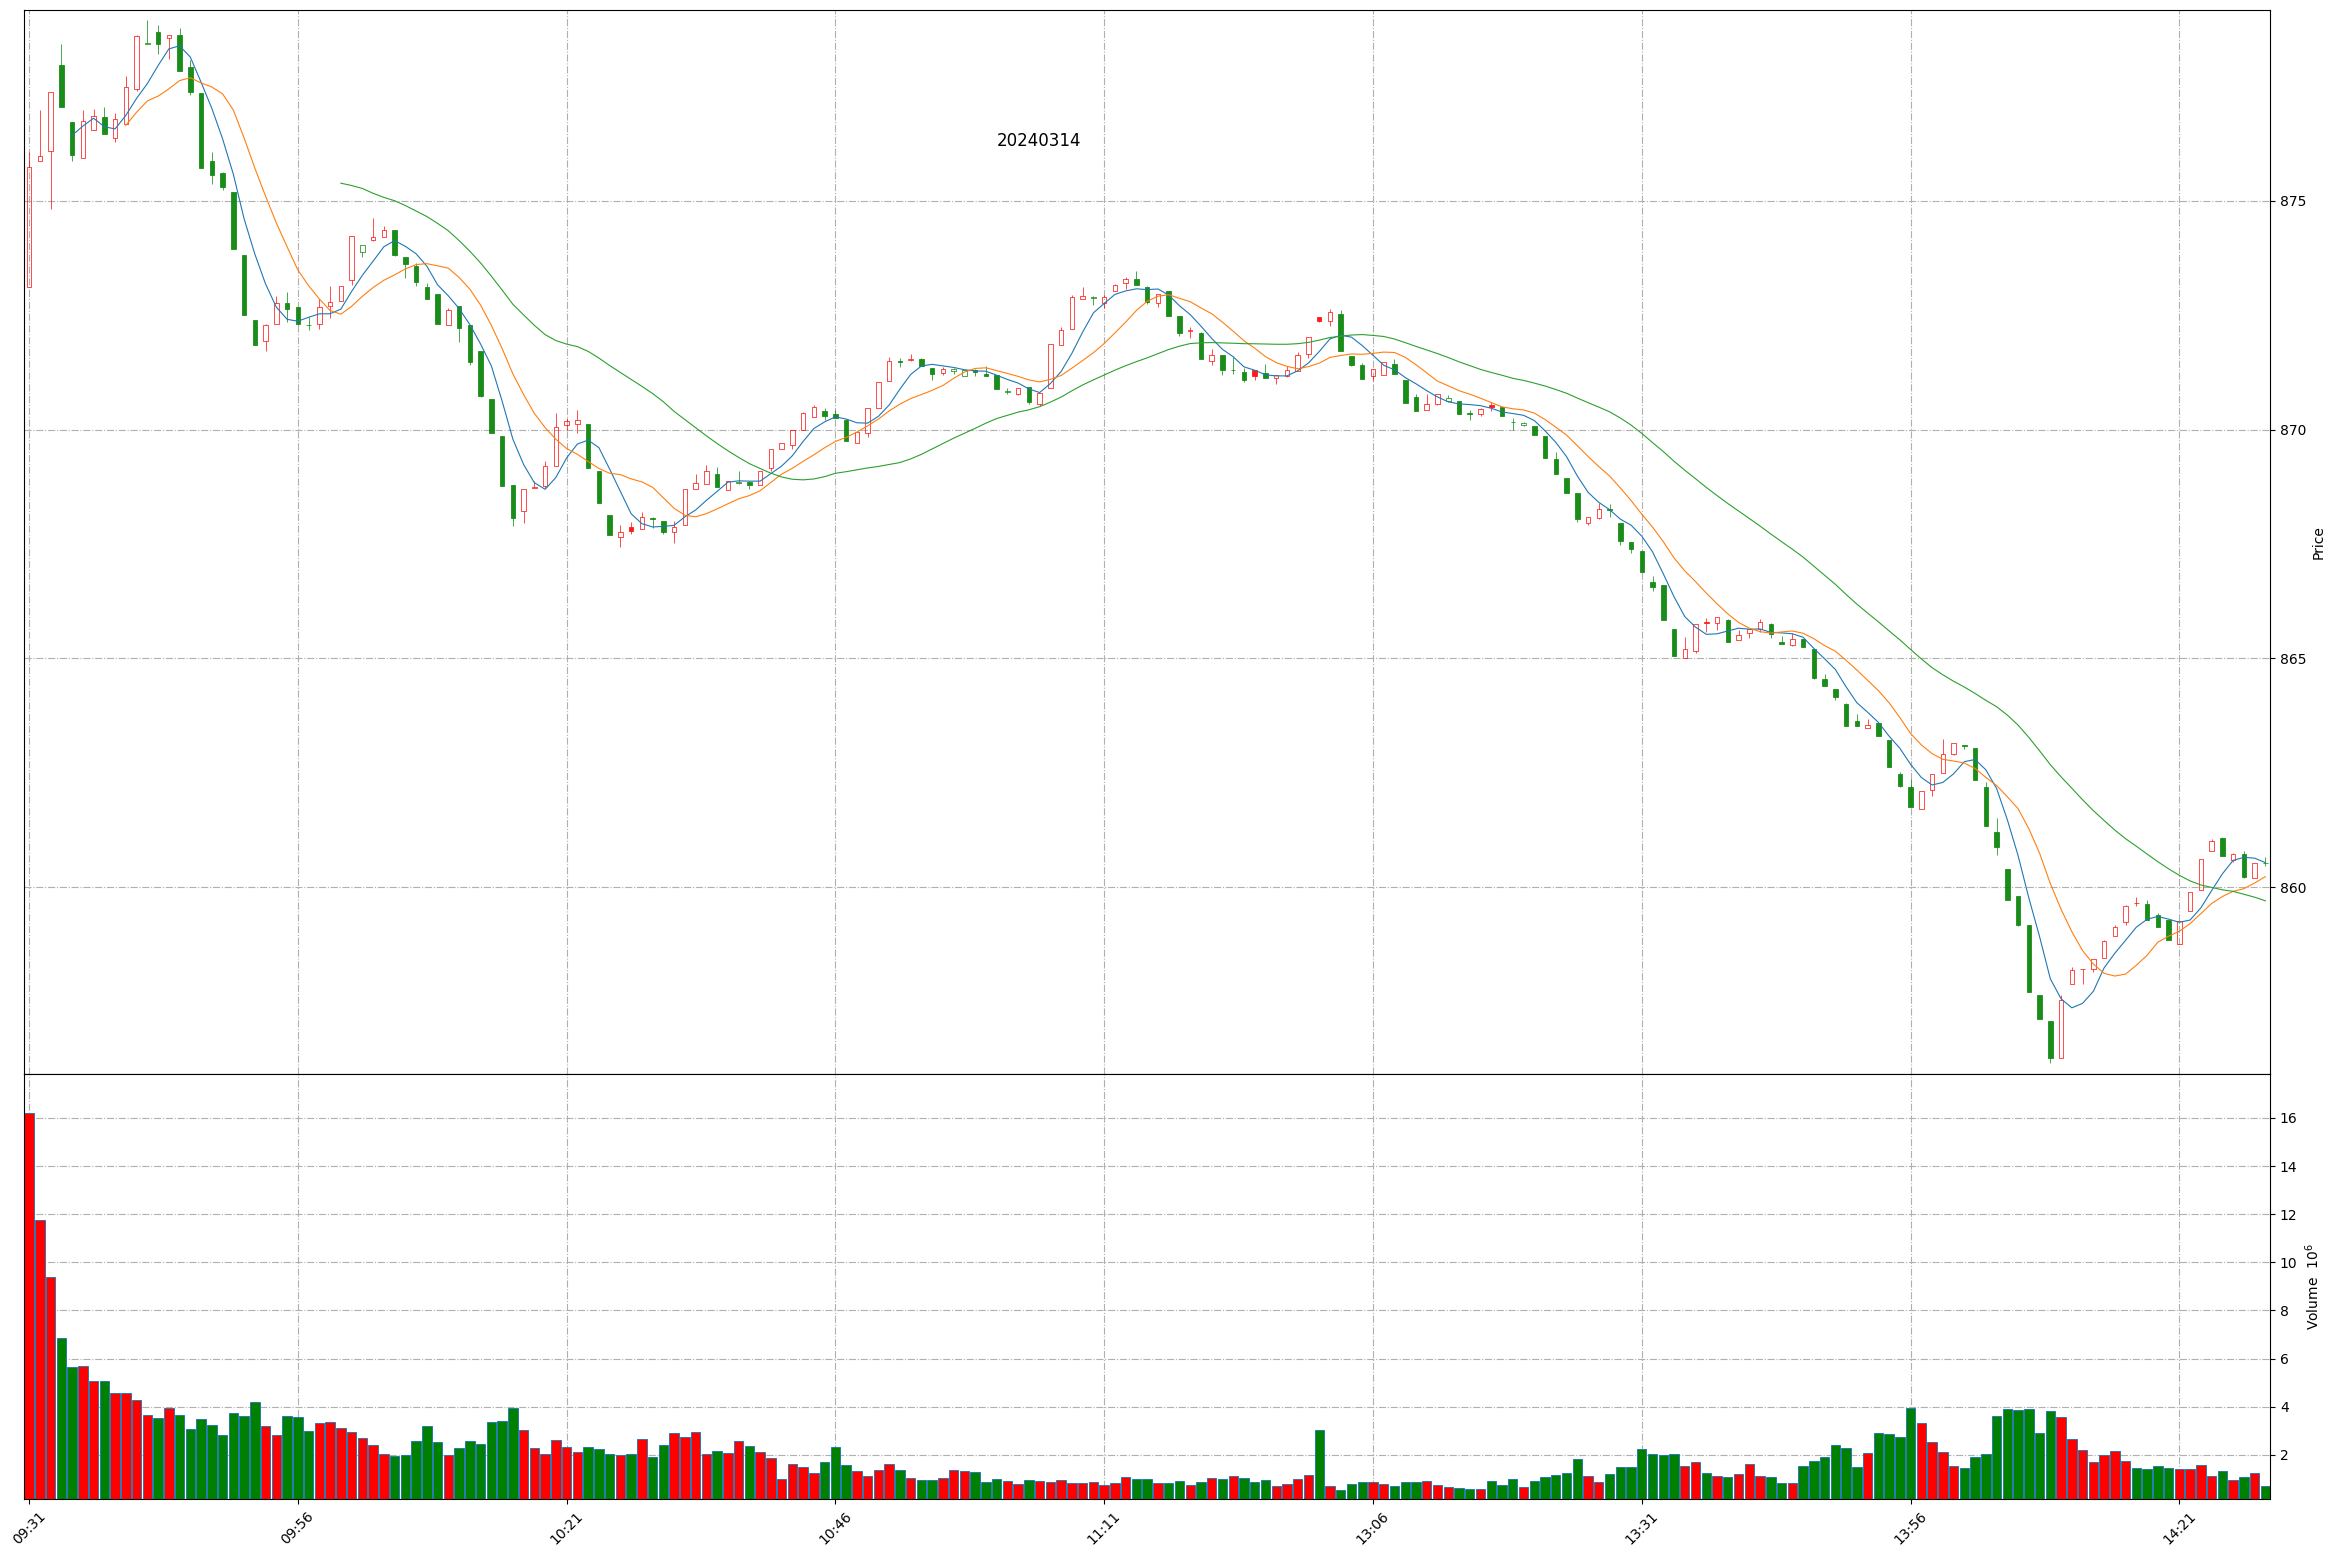
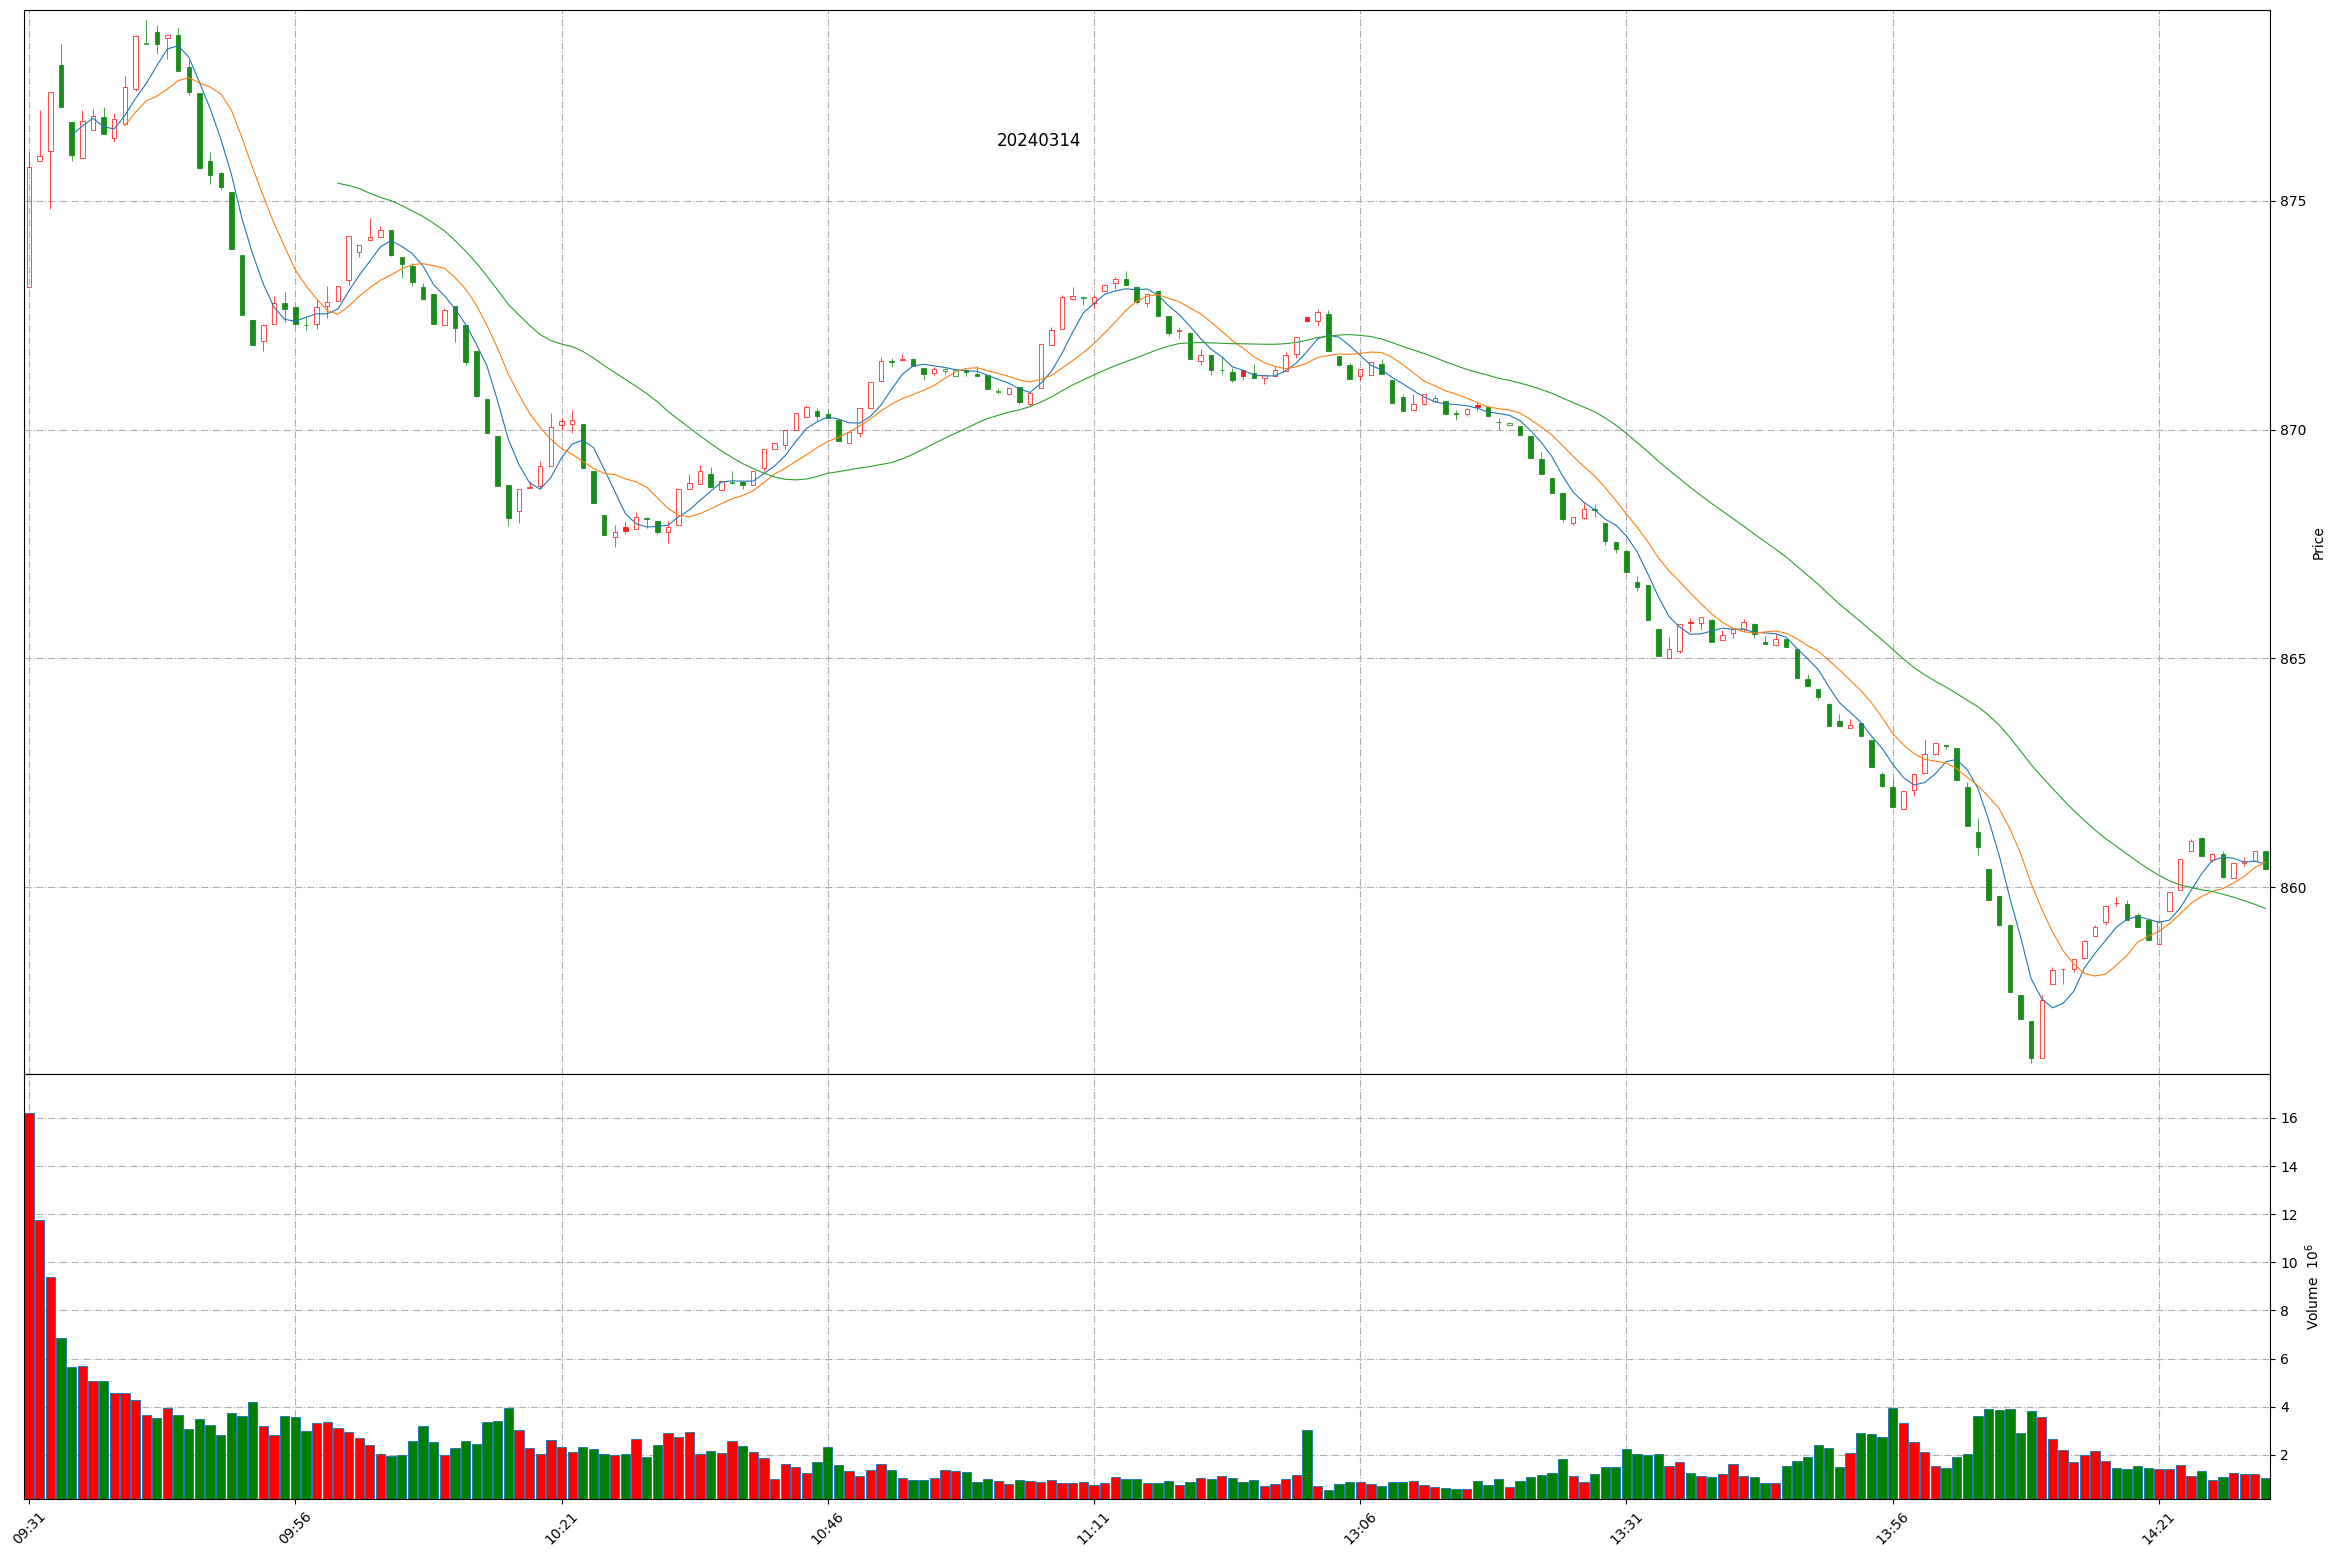
Github action update at 2024-03-14 14:30:57.

diff --git a/README.md b/README.md
@@ -1,11 +1,11 @@
 
 # Daily-A-share-market-quotes 每日 A 股指数（5min 更新）- 20240314
 
-### 上证指数 20240314 14:28
+### 上证指数 20240314 14:30
 ![](./fig/2024/3/20240314-sh000001.png)
 
-### 深证成指 20240314 14:28
+### 深证成指 20240314 14:30
 ![](./fig/2024/3/20240314-sz399001.png)
 
-### 北证50 20240314 14:28
+### 北证50 20240314 14:30
 ![](./fig/2024/3/20240314-bj899050.png)
